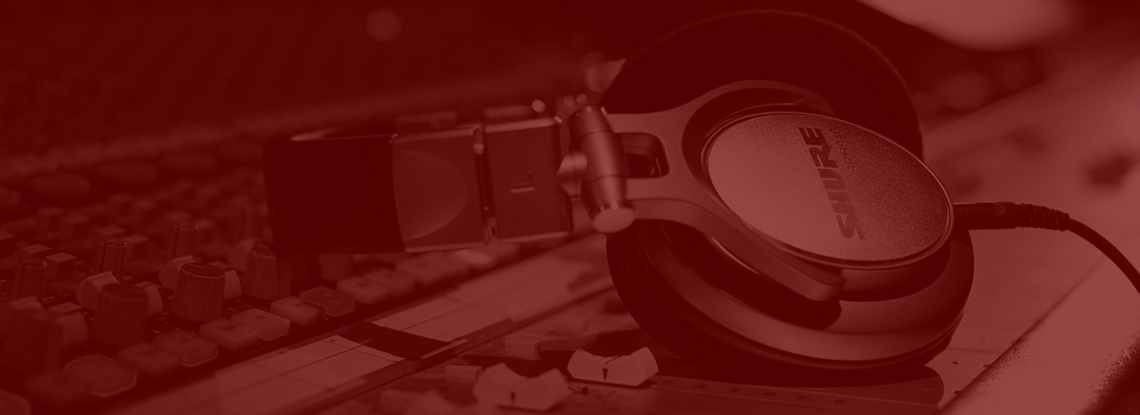
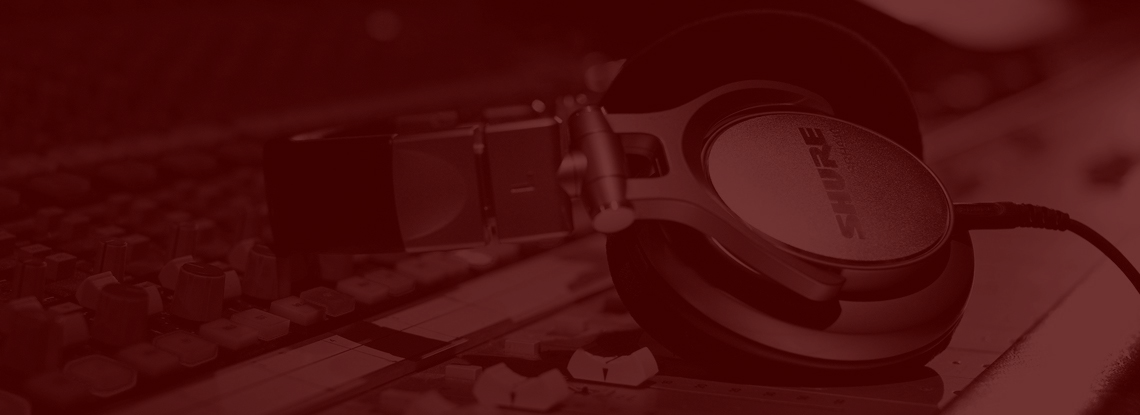
Xan Music Section

diff --git a/src/components/xan/XanMusic.js b/src/components/xan/XanMusic.js
@@ -1,10 +1,43 @@
 import React from 'react';
+import { Container, Row, Col } from 'reactstrap';
 
 export default () => {
   return (
     <div id="music" className="full-page center-items page-padding">
-      <h1 className="text-light display-1">MUSIC</h1>
-      <div className="musicHero" />
+      <Container>
+        <div className="musicHero" />
+        <Row>
+          <Col md="12" lg="6" className="center-items text-light mb-5">
+            <h1 className="text-light OpenSans xan-title">MUSIC</h1>
+            <hr className="hr-white" />
+            <p className="xan-text">
+              I've been producing music for about 7 years. As a fan of all kinds
+              of music - ranging from cinematic to electronic - I enjoy
+              exploring and experimenting with different genres.
+            </p>
+            <p className="xan-text">
+              What is amazing about music is the beauty and energy found in its
+              many forms. It can be passionate, captivating, and awe-inspiring.
+              Listening to and creating music is always an adventure.
+            </p>
+            <p className="xan-text">
+              No matter where you are in life. There will always be a place for
+              music and art.
+            </p>
+          </Col>
+          <Col md="12" lg="6" className="center-items">
+            <iframe
+              className="musicBox center-items"
+              scrolling="no"
+              height="400"
+              frameborder="no"
+              title="scPlayer"
+              allow="autoplay"
+              src="https://w.soundcloud.com/player/?url=https%3A//api.soundcloud.com/playlists/339157124&color=%23ff5500&auto_play=false&hide_related=false&show_comments=true&show_user=true&show_reposts=false&show_teaser=true&visual=true"
+            />
+          </Col>
+        </Row>
+      </Container>
     </div>
   );
 };

diff --git a/src/components/xan/XanHome.js b/src/components/xan/XanHome.js
@@ -2,7 +2,7 @@ import React, { Component } from 'react';
 import XanLanding from './XanLanding';
 import XanNav from './XanNav';
 import XanQuote from './XanQuote';
-// import XanMusic from './XanMusic';
+import XanMusic from './XanMusic';
 
 class XanHome extends Component {
   constructor(props) {
@@ -28,7 +28,7 @@ class XanHome extends Component {
     if (document.querySelector('.musicHero')) {
       let musicHero = document.querySelector('.musicHero');
       let musicHeroTop = window.scrollY - musicHero.offsetTop;
-      musicHero.style.backgroundPositionY = musicHeroTop * -0.12 + 'px';
+      musicHero.style.backgroundPositionY = musicHeroTop * -0.15 + 'px';
       console.log(window.scrollY, musicHero.offsetTop);
     }
   }
@@ -45,11 +45,7 @@ class XanHome extends Component {
         <XanNav />
         <XanLanding />
         <XanQuote />
-        {/* <XanMusic /> */}
-        <div id="music" className="full-page center-items page-padding">
-          <h1 className="text-light display-1">MUSIC</h1>
-          <div className="musicHero" />
-        </div>
+        <XanMusic />
       </div>
     );
   }

diff --git a/public/index.html b/public/index.html
@@ -7,7 +7,7 @@
   <meta name="theme-color" content="#000000">
   <link rel="stylesheet" href="https://stackpath.bootstrapcdn.com/bootstrap/4.1.3/css/bootstrap.min.css" integrity="sha384-MCw98/SFnGE8fJT3GXwEOngsV7Zt27NXFoaoApmYm81iuXoPkFOJwJ8ERdknLPMO"
     crossorigin="anonymous">
-  <link href="https://fonts.googleapis.com/css?family=Open+Sans|Cedarville+Cursive" rel="stylesheet">
+  <link href="https://fonts.googleapis.com/css?family=Raleway|Open+Sans|Cedarville+Cursive" rel="stylesheet">
   <link rel="manifest" href="%PUBLIC_URL%/manifest.json">
   <link rel="shortcut icon" href="%PUBLIC_URL%/favicon.ico">
   <link rel="stylesheet" href="https://use.fontawesome.com/releases/v5.2.0/css/all.css" integrity="sha384-hWVjflwFxL6sNzntih27bfxkr27PmbbK/iSvJ+a4+0owXq79v+lsFkW54bOGbiDQ"

diff --git a/src/App.css b/src/App.css
@@ -74,6 +74,11 @@ hr {
   margin: 15px auto;
   border-bottom: solid 2px var(--black);
 }
+.hr-white {
+  width: 50px;
+  margin: 15px auto;
+  border-bottom: solid 2px var(--white);
+}
 
 .page-title {
   font-size: 3.2rem;
@@ -524,6 +529,14 @@ hr {
   --xan-bg: #0c0909;
   --xan-light: rgba(248, 241, 241, 0.75);
 }
+.xan-title {
+  font-size: 4.5rem;
+  font-family: Raleway;
+}
+.xan-text {
+  font-size: 1.1rem;
+  width: 100%;
+}
 /* XAN NAV */
 .xan-nav-modal {
   background: rgb(14, 14, 14);
@@ -593,6 +606,11 @@ hr {
   background: url('img/Headphones.jpg') no-repeat center 0px;
   background-size: cover;
   z-index: -1;
+}
+.musicBox {
+  width: 90%;
+  max-width: 800px;
+  height: 450px;
 }
 
 /* MEDIA QUERIES */
